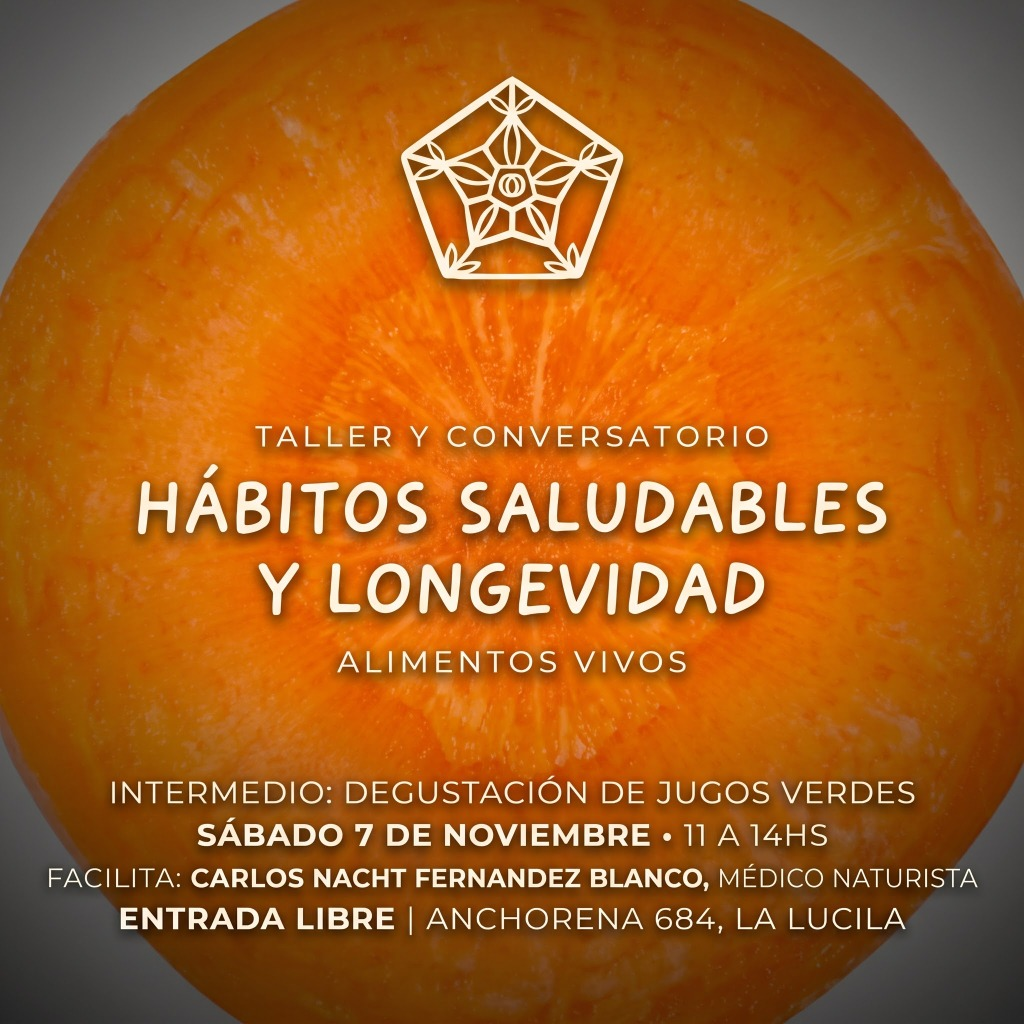
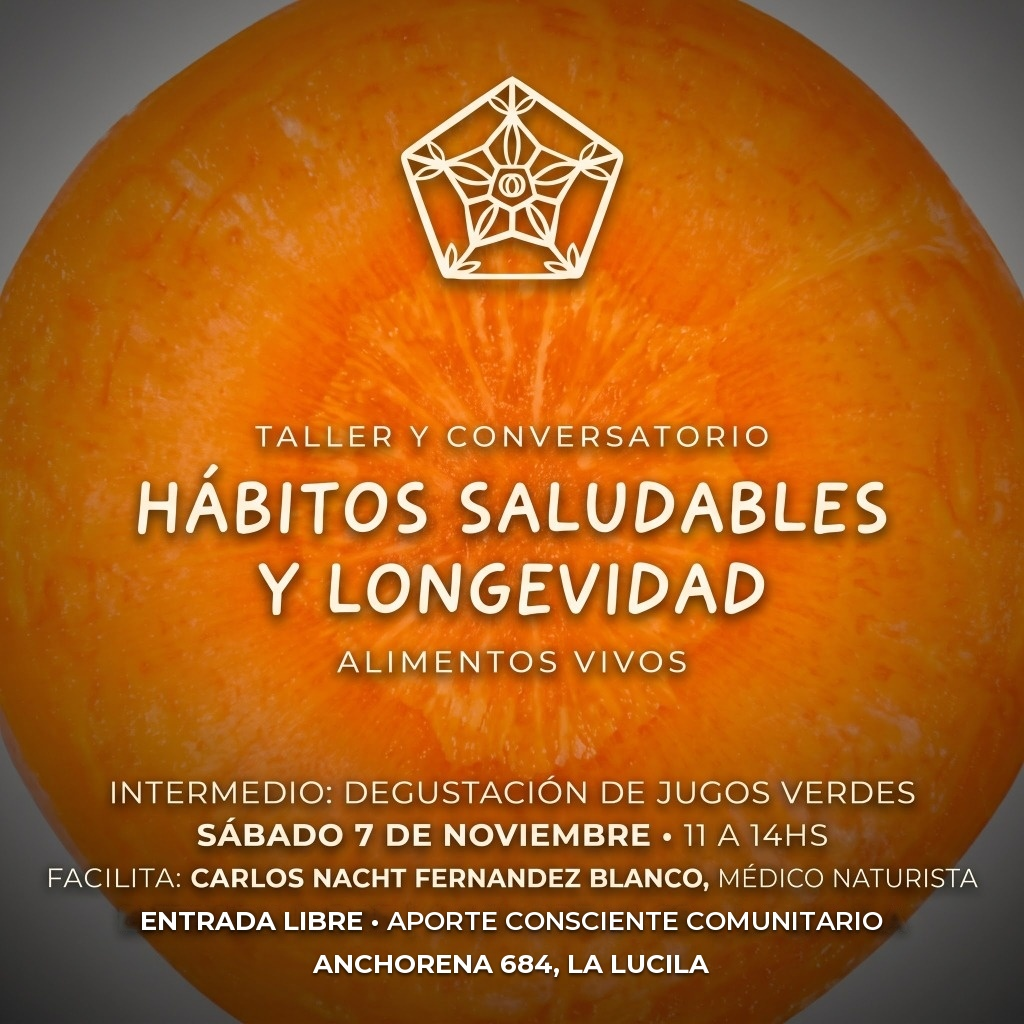
feat(salud): incorporar aporte consciente comunitario en flyer oficial y badges

Changed region(s): [[0.0938, 0.875, 0.875, 0.9688]]

diff --git a/carlos.html b/carlos.html
@@ -750,7 +750,7 @@
   <main class="app-container">
 
     <!-- IMAGEN BANNER DE CABECERA (FLYER OFICIAL ZANAHORIA) -->
-    <div class="header-image-container" onclick="abrirImagen('public/assets/talleres/flyer_oficial_carlos.jpg', 'Flyer Oficial: Taller y Conversatorio · Hábitos Saludables y Longevidad · Carlos Nacht Fernandez Blanco')">
+    <div class="header-image-container" onclick="abrirImagen('public/assets/talleres/flyer_oficial_carlos.jpg', 'Flyer Oficial: Taller y Conversatorio · Hábitos Saludables y Longevidad · Carlos Nacht Fernandez Blanco (Entrada Libre · Aporte Consciente Comunitario)')">
       <img src="public/assets/talleres/flyer_oficial_carlos.jpg" alt="Taller y Conversatorio: Hábitos Saludables y Longevidad - Carlos Nacht Fernandez Blanco">
       <div class="header-image-badge">
         <span>🔍</span> Tocar para ampliar
@@ -774,7 +774,7 @@
         </p>
 
         <div class="event-datetime">
-          <div class="datetime-badge" style="background:#fef3c7; color:#92400e; border:1px solid #fde68a; font-weight:700;">🎟 Entrada Libre</div>
+          <div class="datetime-badge" style="background:#fef3c7; color:#92400e; border:1px solid #fde68a; font-weight:700;">🎟 Entrada Libre · Aporte Consciente Comunitario</div>
           <div class="datetime-badge">📅 Sábado 7 de Noviembre</div>
           <div class="datetime-badge">⏰ 11:00 am a 14:00 hs</div>
           <div class="datetime-badge">📍 Anchorena 684, La Lucila</div>
@@ -787,7 +787,7 @@
         <div class="gallery-grid">
           
           <!-- Item 1: Flyer Oficial -->
-          <div class="gallery-item" onclick="abrirImagen('public/assets/talleres/flyer_oficial_carlos.jpg', 'Flyer Oficial: Taller y Conversatorio · Hábitos Saludables y Longevidad')">
+          <div class="gallery-item" onclick="abrirImagen('public/assets/talleres/flyer_oficial_carlos.jpg', 'Flyer Oficial: Taller y Conversatorio · Hábitos Saludables y Longevidad (Entrada Libre · Aporte Consciente Comunitario)')">
             <img src="public/assets/talleres/flyer_oficial_carlos.jpg" alt="Flyer Oficial">
             <div class="gallery-item-caption">Flyer Oficial</div>
           </div>

diff --git a/carlos/index.html b/carlos/index.html
@@ -750,7 +750,7 @@
   <main class="app-container">
 
     <!-- IMAGEN BANNER DE CABECERA (FLYER OFICIAL ZANAHORIA) -->
-    <div class="header-image-container" onclick="abrirImagen('public/assets/talleres/flyer_oficial_carlos.jpg', 'Flyer Oficial: Taller y Conversatorio · Hábitos Saludables y Longevidad · Carlos Nacht Fernandez Blanco')">
+    <div class="header-image-container" onclick="abrirImagen('public/assets/talleres/flyer_oficial_carlos.jpg', 'Flyer Oficial: Taller y Conversatorio · Hábitos Saludables y Longevidad · Carlos Nacht Fernandez Blanco (Entrada Libre · Aporte Consciente Comunitario)')">
       <img src="public/assets/talleres/flyer_oficial_carlos.jpg" alt="Taller y Conversatorio: Hábitos Saludables y Longevidad - Carlos Nacht Fernandez Blanco">
       <div class="header-image-badge">
         <span>🔍</span> Tocar para ampliar
@@ -774,7 +774,7 @@
         </p>
 
         <div class="event-datetime">
-          <div class="datetime-badge" style="background:#fef3c7; color:#92400e; border:1px solid #fde68a; font-weight:700;">🎟 Entrada Libre</div>
+          <div class="datetime-badge" style="background:#fef3c7; color:#92400e; border:1px solid #fde68a; font-weight:700;">🎟 Entrada Libre · Aporte Consciente Comunitario</div>
           <div class="datetime-badge">📅 Sábado 7 de Noviembre</div>
           <div class="datetime-badge">⏰ 11:00 am a 14:00 hs</div>
           <div class="datetime-badge">📍 Anchorena 684, La Lucila</div>
@@ -787,7 +787,7 @@
         <div class="gallery-grid">
           
           <!-- Item 1: Flyer Oficial -->
-          <div class="gallery-item" onclick="abrirImagen('public/assets/talleres/flyer_oficial_carlos.jpg', 'Flyer Oficial: Taller y Conversatorio · Hábitos Saludables y Longevidad')">
+          <div class="gallery-item" onclick="abrirImagen('public/assets/talleres/flyer_oficial_carlos.jpg', 'Flyer Oficial: Taller y Conversatorio · Hábitos Saludables y Longevidad (Entrada Libre · Aporte Consciente Comunitario)')">
             <img src="public/assets/talleres/flyer_oficial_carlos.jpg" alt="Flyer Oficial">
             <div class="gallery-item-caption">Flyer Oficial</div>
           </div>

diff --git a/salud.html b/salud.html
@@ -750,7 +750,7 @@
   <main class="app-container">
 
     <!-- IMAGEN BANNER DE CABECERA (FLYER OFICIAL ZANAHORIA) -->
-    <div class="header-image-container" onclick="abrirImagen('public/assets/talleres/flyer_oficial_carlos.jpg', 'Flyer Oficial: Taller y Conversatorio · Hábitos Saludables y Longevidad · Carlos Nacht Fernandez Blanco')">
+    <div class="header-image-container" onclick="abrirImagen('public/assets/talleres/flyer_oficial_carlos.jpg', 'Flyer Oficial: Taller y Conversatorio · Hábitos Saludables y Longevidad · Carlos Nacht Fernandez Blanco (Entrada Libre · Aporte Consciente Comunitario)')">
       <img src="public/assets/talleres/flyer_oficial_carlos.jpg" alt="Taller y Conversatorio: Hábitos Saludables y Longevidad - Carlos Nacht Fernandez Blanco">
       <div class="header-image-badge">
         <span>🔍</span> Tocar para ampliar
@@ -774,7 +774,7 @@
         </p>
 
         <div class="event-datetime">
-          <div class="datetime-badge" style="background:#fef3c7; color:#92400e; border:1px solid #fde68a; font-weight:700;">🎟 Entrada Libre</div>
+          <div class="datetime-badge" style="background:#fef3c7; color:#92400e; border:1px solid #fde68a; font-weight:700;">🎟 Entrada Libre · Aporte Consciente Comunitario</div>
           <div class="datetime-badge">📅 Sábado 7 de Noviembre</div>
           <div class="datetime-badge">⏰ 11:00 am a 14:00 hs</div>
           <div class="datetime-badge">📍 Anchorena 684, La Lucila</div>
@@ -787,7 +787,7 @@
         <div class="gallery-grid">
           
           <!-- Item 1: Flyer Oficial -->
-          <div class="gallery-item" onclick="abrirImagen('public/assets/talleres/flyer_oficial_carlos.jpg', 'Flyer Oficial: Taller y Conversatorio · Hábitos Saludables y Longevidad')">
+          <div class="gallery-item" onclick="abrirImagen('public/assets/talleres/flyer_oficial_carlos.jpg', 'Flyer Oficial: Taller y Conversatorio · Hábitos Saludables y Longevidad (Entrada Libre · Aporte Consciente Comunitario)')">
             <img src="public/assets/talleres/flyer_oficial_carlos.jpg" alt="Flyer Oficial">
             <div class="gallery-item-caption">Flyer Oficial</div>
           </div>

diff --git a/salud/index.html b/salud/index.html
@@ -750,7 +750,7 @@
   <main class="app-container">
 
     <!-- IMAGEN BANNER DE CABECERA (FLYER OFICIAL ZANAHORIA) -->
-    <div class="header-image-container" onclick="abrirImagen('public/assets/talleres/flyer_oficial_carlos.jpg', 'Flyer Oficial: Taller y Conversatorio · Hábitos Saludables y Longevidad · Carlos Nacht Fernandez Blanco')">
+    <div class="header-image-container" onclick="abrirImagen('public/assets/talleres/flyer_oficial_carlos.jpg', 'Flyer Oficial: Taller y Conversatorio · Hábitos Saludables y Longevidad · Carlos Nacht Fernandez Blanco (Entrada Libre · Aporte Consciente Comunitario)')">
       <img src="public/assets/talleres/flyer_oficial_carlos.jpg" alt="Taller y Conversatorio: Hábitos Saludables y Longevidad - Carlos Nacht Fernandez Blanco">
       <div class="header-image-badge">
         <span>🔍</span> Tocar para ampliar
@@ -774,7 +774,7 @@
         </p>
 
         <div class="event-datetime">
-          <div class="datetime-badge" style="background:#fef3c7; color:#92400e; border:1px solid #fde68a; font-weight:700;">🎟 Entrada Libre</div>
+          <div class="datetime-badge" style="background:#fef3c7; color:#92400e; border:1px solid #fde68a; font-weight:700;">🎟 Entrada Libre · Aporte Consciente Comunitario</div>
           <div class="datetime-badge">📅 Sábado 7 de Noviembre</div>
           <div class="datetime-badge">⏰ 11:00 am a 14:00 hs</div>
           <div class="datetime-badge">📍 Anchorena 684, La Lucila</div>
@@ -787,7 +787,7 @@
         <div class="gallery-grid">
           
           <!-- Item 1: Flyer Oficial -->
-          <div class="gallery-item" onclick="abrirImagen('public/assets/talleres/flyer_oficial_carlos.jpg', 'Flyer Oficial: Taller y Conversatorio · Hábitos Saludables y Longevidad')">
+          <div class="gallery-item" onclick="abrirImagen('public/assets/talleres/flyer_oficial_carlos.jpg', 'Flyer Oficial: Taller y Conversatorio · Hábitos Saludables y Longevidad (Entrada Libre · Aporte Consciente Comunitario)')">
             <img src="public/assets/talleres/flyer_oficial_carlos.jpg" alt="Flyer Oficial">
             <div class="gallery-item-caption">Flyer Oficial</div>
           </div>
